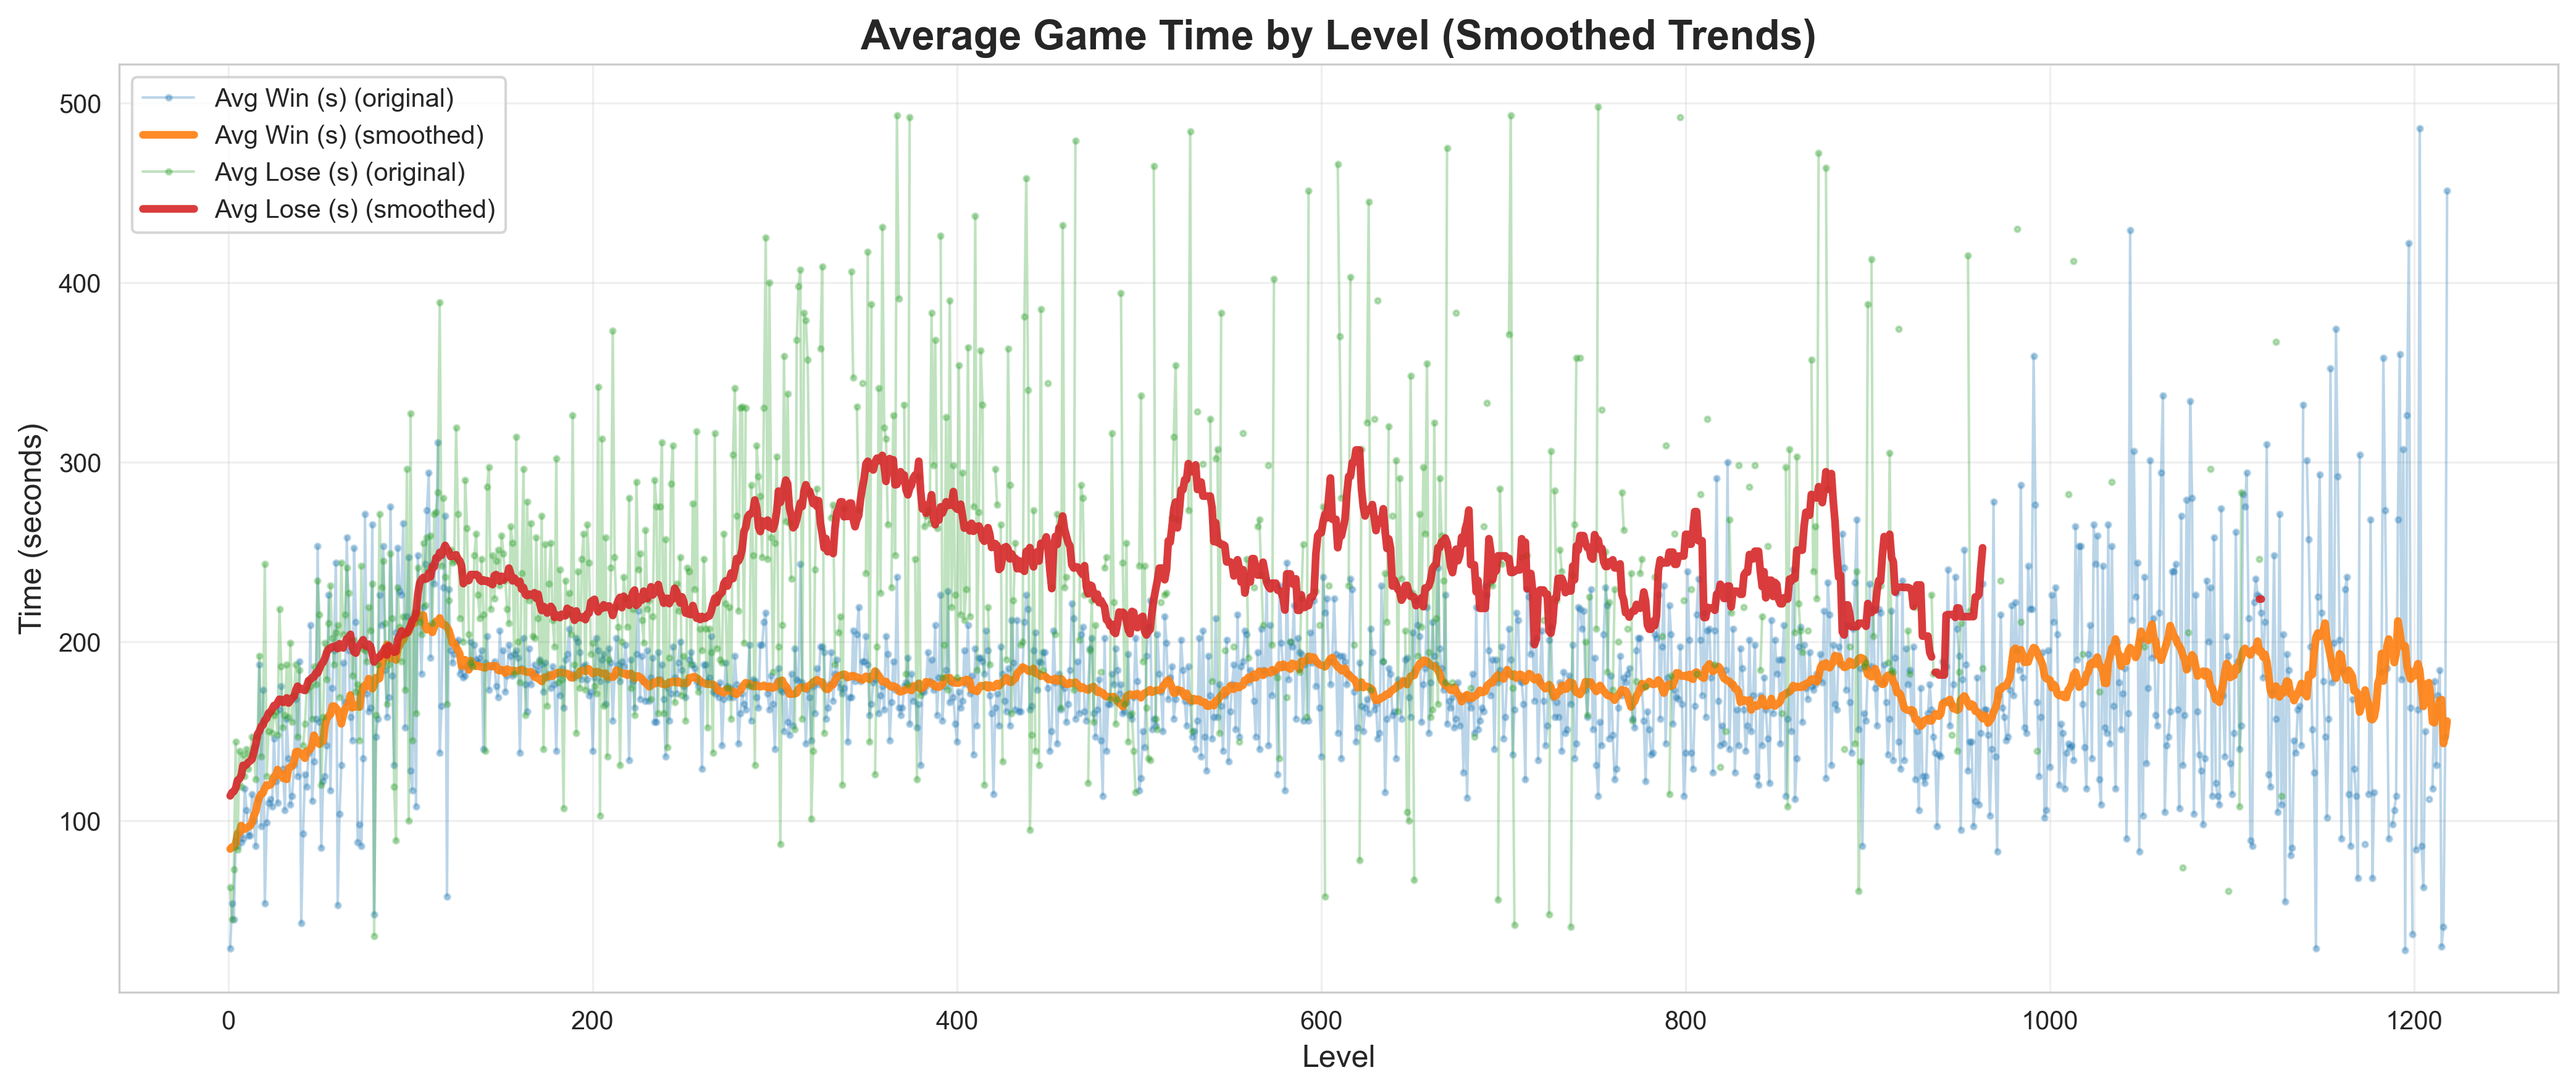
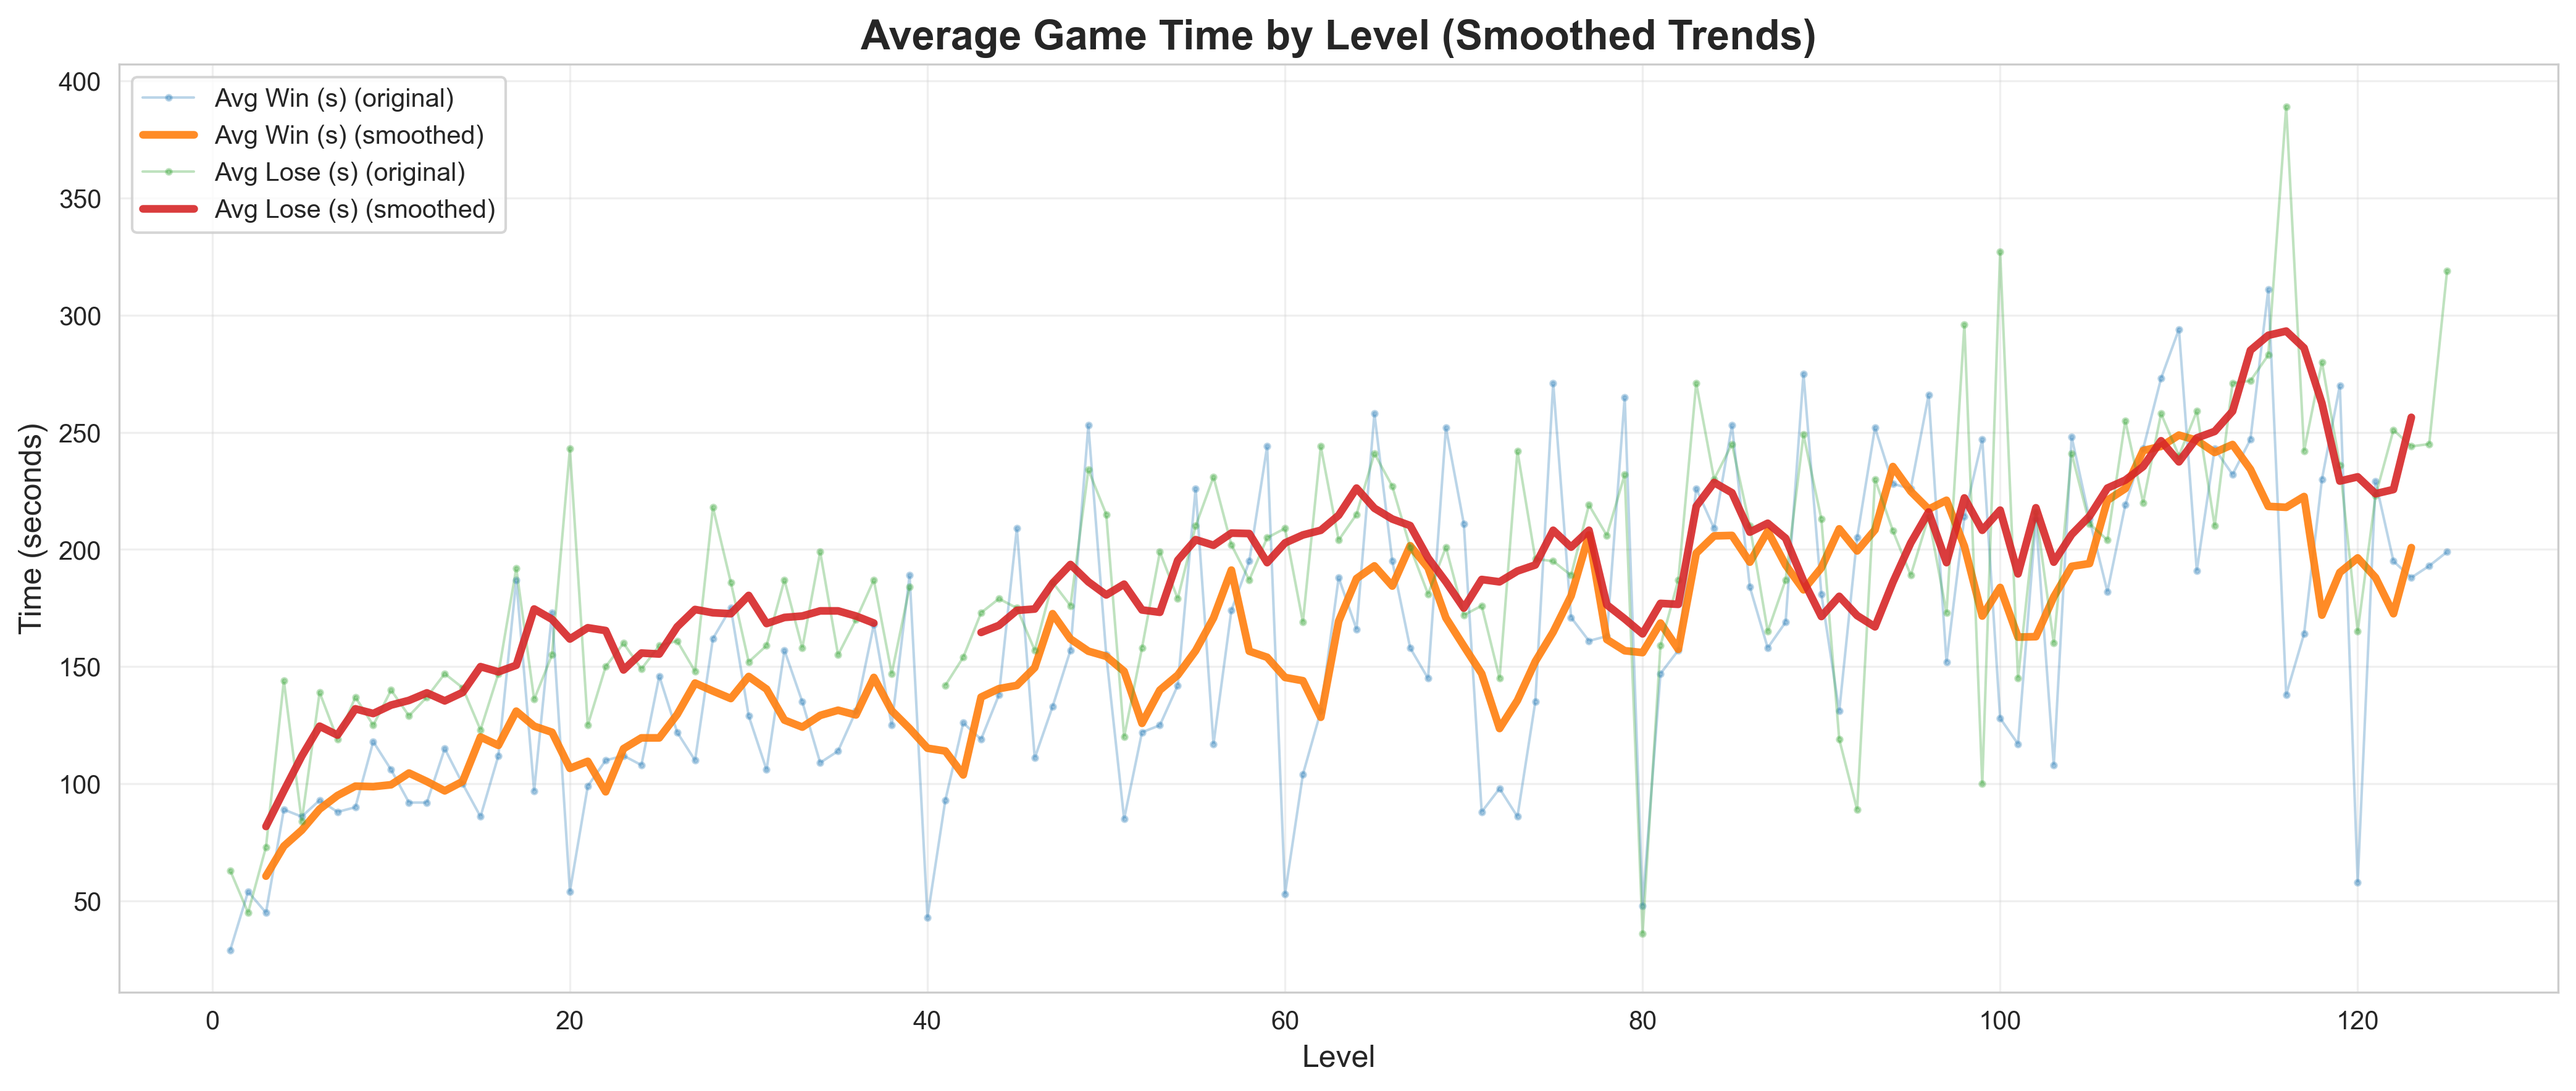
Update EDA analysis and plots

diff --git a/data/EDA.py b/data/EDA.py
@@ -241,9 +241,11 @@ if available_booster_cols:
 time_cols = ['Avg Win (s)', 'Avg Lose (s)']
 available_time_cols = [col for col in time_cols if col in df.columns and df[col].notna().any()]
 if available_time_cols:
+    # Use only first 125 levels
+    df_125 = df.head(125)
     plt.figure(figsize=(14, 6))
     for col in available_time_cols:
-        plt.plot(range(1, len(df) + 1), df[col], marker='o', 
+        plt.plot(range(1, len(df_125) + 1), df_125[col], marker='o', 
                 linewidth=2, markersize=4, label=col, alpha=0.8)
     plt.title('Average Game Time by Level', fontsize=16, fontweight='bold')
     plt.xlabel('Level', fontsize=12)
@@ -256,16 +258,18 @@ if available_time_cols:
     print("  ✓ Saved: 07_avg_game_time.png")
     
     # Plot 7b: Smoothed Rolling Average Game Time
-    window_size = 25
+    window_size = 5
+    # Use only first 125 levels
+    df_125 = df.head(125)
     plt.figure(figsize=(14, 6))
-    levels = range(1, len(df) + 1)
+    levels = range(1, len(df_125) + 1)
     
     for col in available_time_cols:
         # Original data (faded)
-        plt.plot(levels, df[col], marker='o', linewidth=1, markersize=2, 
+        plt.plot(levels, df_125[col], marker='o', linewidth=1, markersize=2, 
                 label=f'{col} (original)', alpha=0.3)
         # Smoothed data (bold)
-        smoothed = df[col].rolling(window=window_size, center=True, min_periods=5).mean()
+        smoothed = df_125[col].rolling(window=window_size, center=True, min_periods=5).mean()
         plt.plot(levels, smoothed, linewidth=3, label=f'{col} (smoothed)', alpha=0.9)
     
     plt.title('Average Game Time by Level (Smoothed Trends)', fontsize=16, fontweight='bold')
@@ -279,17 +283,20 @@ if available_time_cols:
     print("  ✓ Saved: 07b_avg_game_time_smoothed.png")
     
     # Plot 7c: Box Plot by Level Ranges
+    # Use only first 125 levels
+    df_125 = df.head(125)
     # Create level range categories
     def get_level_range(level_idx):
         level_num = level_idx + 1
-        if level_num <= 200:
-            return 'Early (0-200)'
-        elif level_num <= 600:
-            return 'Mid (200-600)'
+        if level_num <= 40:
+            return 'Early (1-40)'
+        elif level_num <= 80:
+            return 'Mid (41-80)'
         else:
-            return 'Late (600-1200)'
+            return 'Late (81-125)'
     
-    df['Level_Range'] = [get_level_range(i) for i in range(len(df))]
+    df_125 = df_125.copy()
+    df_125['Level_Range'] = [get_level_range(i) for i in range(len(df_125))]
     
     fig, axes = plt.subplots(1, 2, figsize=(16, 6))
     
@@ -297,8 +304,8 @@ if available_time_cols:
         ax = axes[idx]
         data_for_box = []
         labels = []
-        for level_range in ['Early (0-200)', 'Mid (200-600)', 'Late (600-1200)']:
-            range_data = df[df['Level_Range'] == level_range][col].dropna()
+        for level_range in ['Early (1-40)', 'Mid (41-80)', 'Late (81-125)']:
+            range_data = df_125[df_125['Level_Range'] == level_range][col].dropna()
             if len(range_data) > 0:
                 data_for_box.append(range_data)
                 labels.append(level_range)
@@ -321,9 +328,12 @@ if available_time_cols:
     
     # Plot 7d: Win-Lose Time Difference
     if 'Avg Win (s)' in available_time_cols and 'Avg Lose (s)' in available_time_cols:
-        win_times = df['Avg Win (s)']
-        lose_times = df['Avg Lose (s)']
+        # Use only first 125 levels
+        df_125 = df.head(125)
+        win_times = df_125['Avg Win (s)']
+        lose_times = df_125['Avg Lose (s)']
         time_diff = lose_times - win_times
+        levels = range(1, len(df_125) + 1)
         
         plt.figure(figsize=(14, 6))
         # Original difference
@@ -347,12 +357,15 @@ if available_time_cols:
         print("  ✓ Saved: 07d_win_lose_difference.png")
     
     # Plot 7e: Percentile/Variability Bands
+    # Use only first 125 levels
+    df_125 = df.head(125)
+    levels = range(1, len(df_125) + 1)
     plt.figure(figsize=(14, 6))
     for col in available_time_cols:
         # Calculate smoothed mean
-        smoothed_mean = df[col].rolling(window=window_size, center=True, min_periods=5).mean()
+        smoothed_mean = df_125[col].rolling(window=window_size, center=True, min_periods=5).mean()
         # Calculate rolling standard deviation as variability proxy
-        smoothed_std = df[col].rolling(window=window_size, center=True, min_periods=5).std()
+        smoothed_std = df_125[col].rolling(window=window_size, center=True, min_periods=5).std()
         
         # Plot bands
         upper_band = smoothed_mean + smoothed_std
@@ -375,7 +388,8 @@ if available_time_cols:
     print("  ✓ Saved: 07e_avg_game_time_percentiles.png")
     
     # Clean up temporary column
-    df.drop('Level_Range', axis=1, inplace=True, errors='ignore')
+    if 'Level_Range' in df_125.columns:
+        df_125.drop('Level_Range', axis=1, inplace=True, errors='ignore')
 
 # Plot 8: Combo Statistics
 combo_cols = ['Avg Combo', 'Avg SuperCombo', 'Avg MegaCombo', 'Avg BigCombo']
